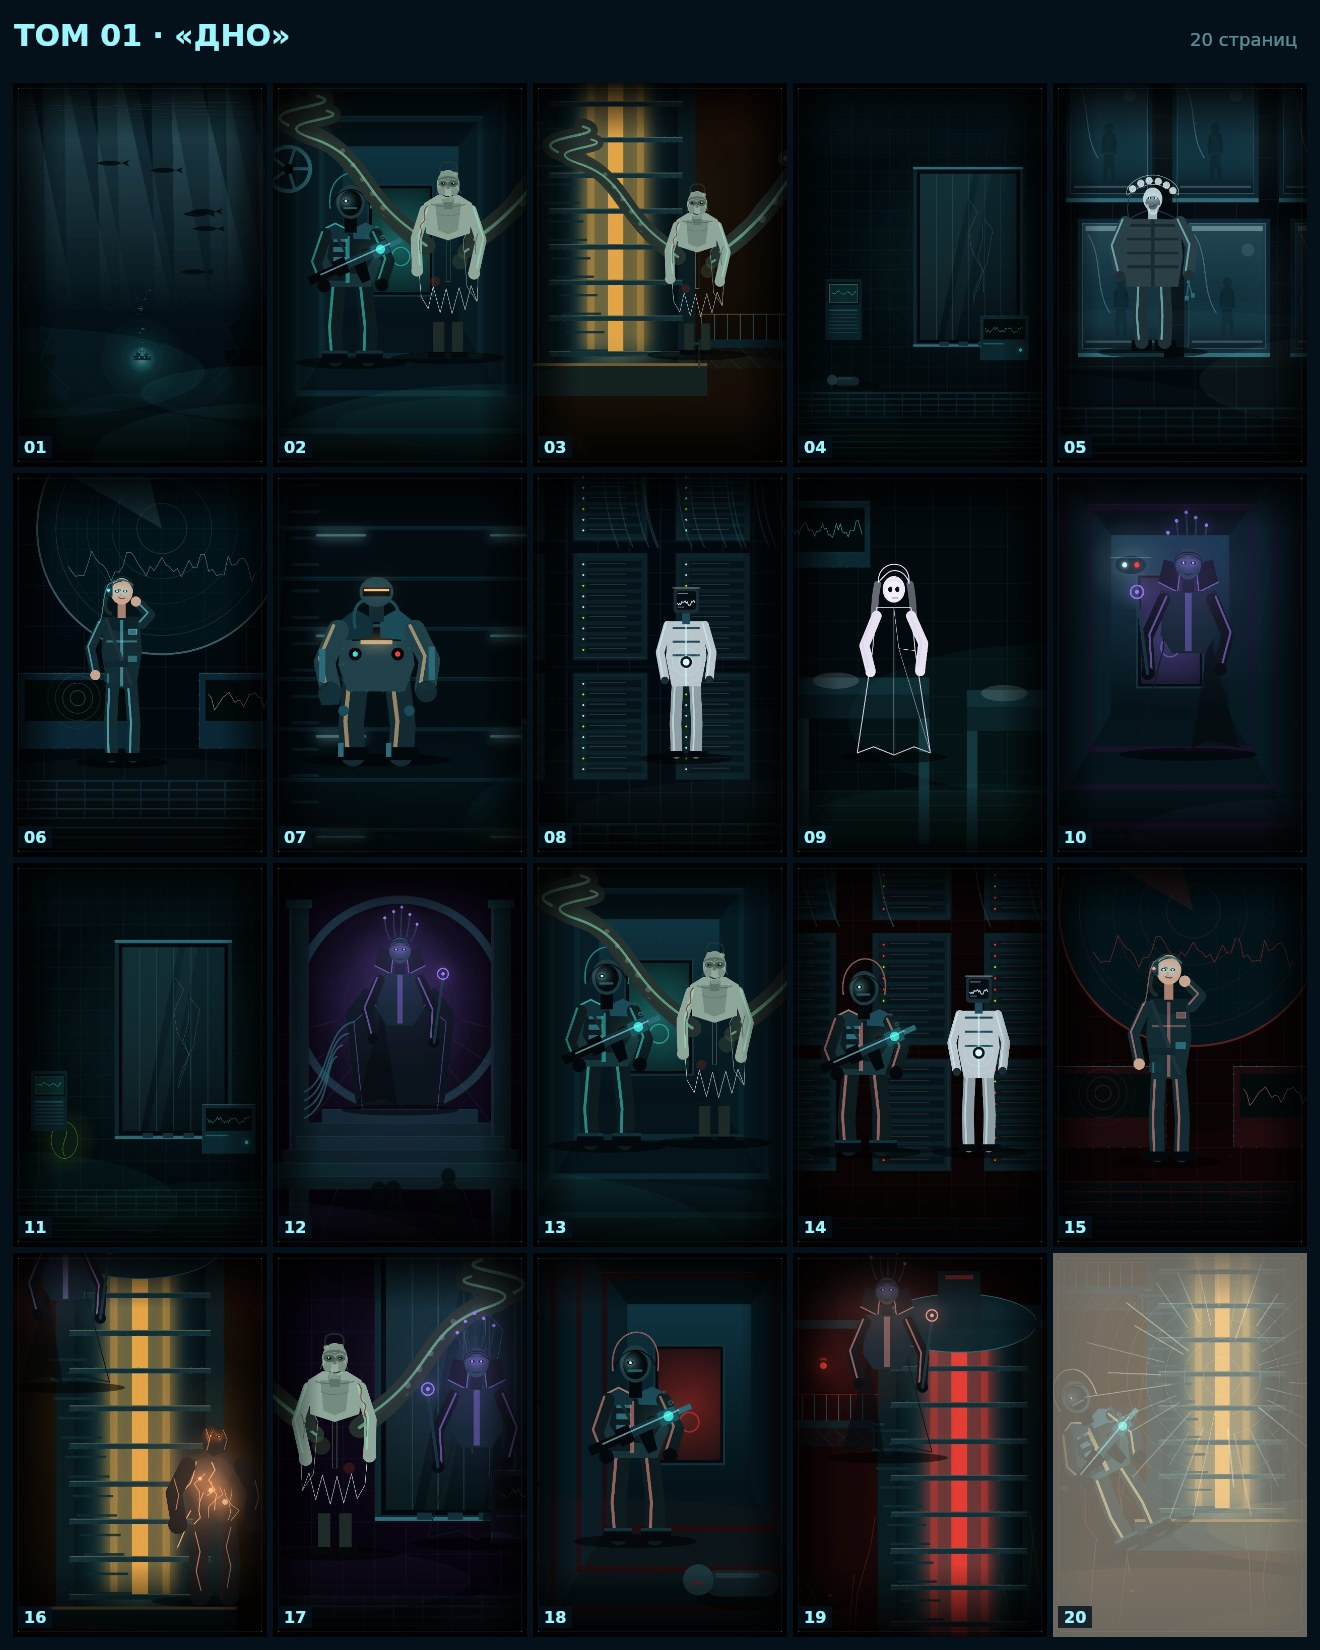
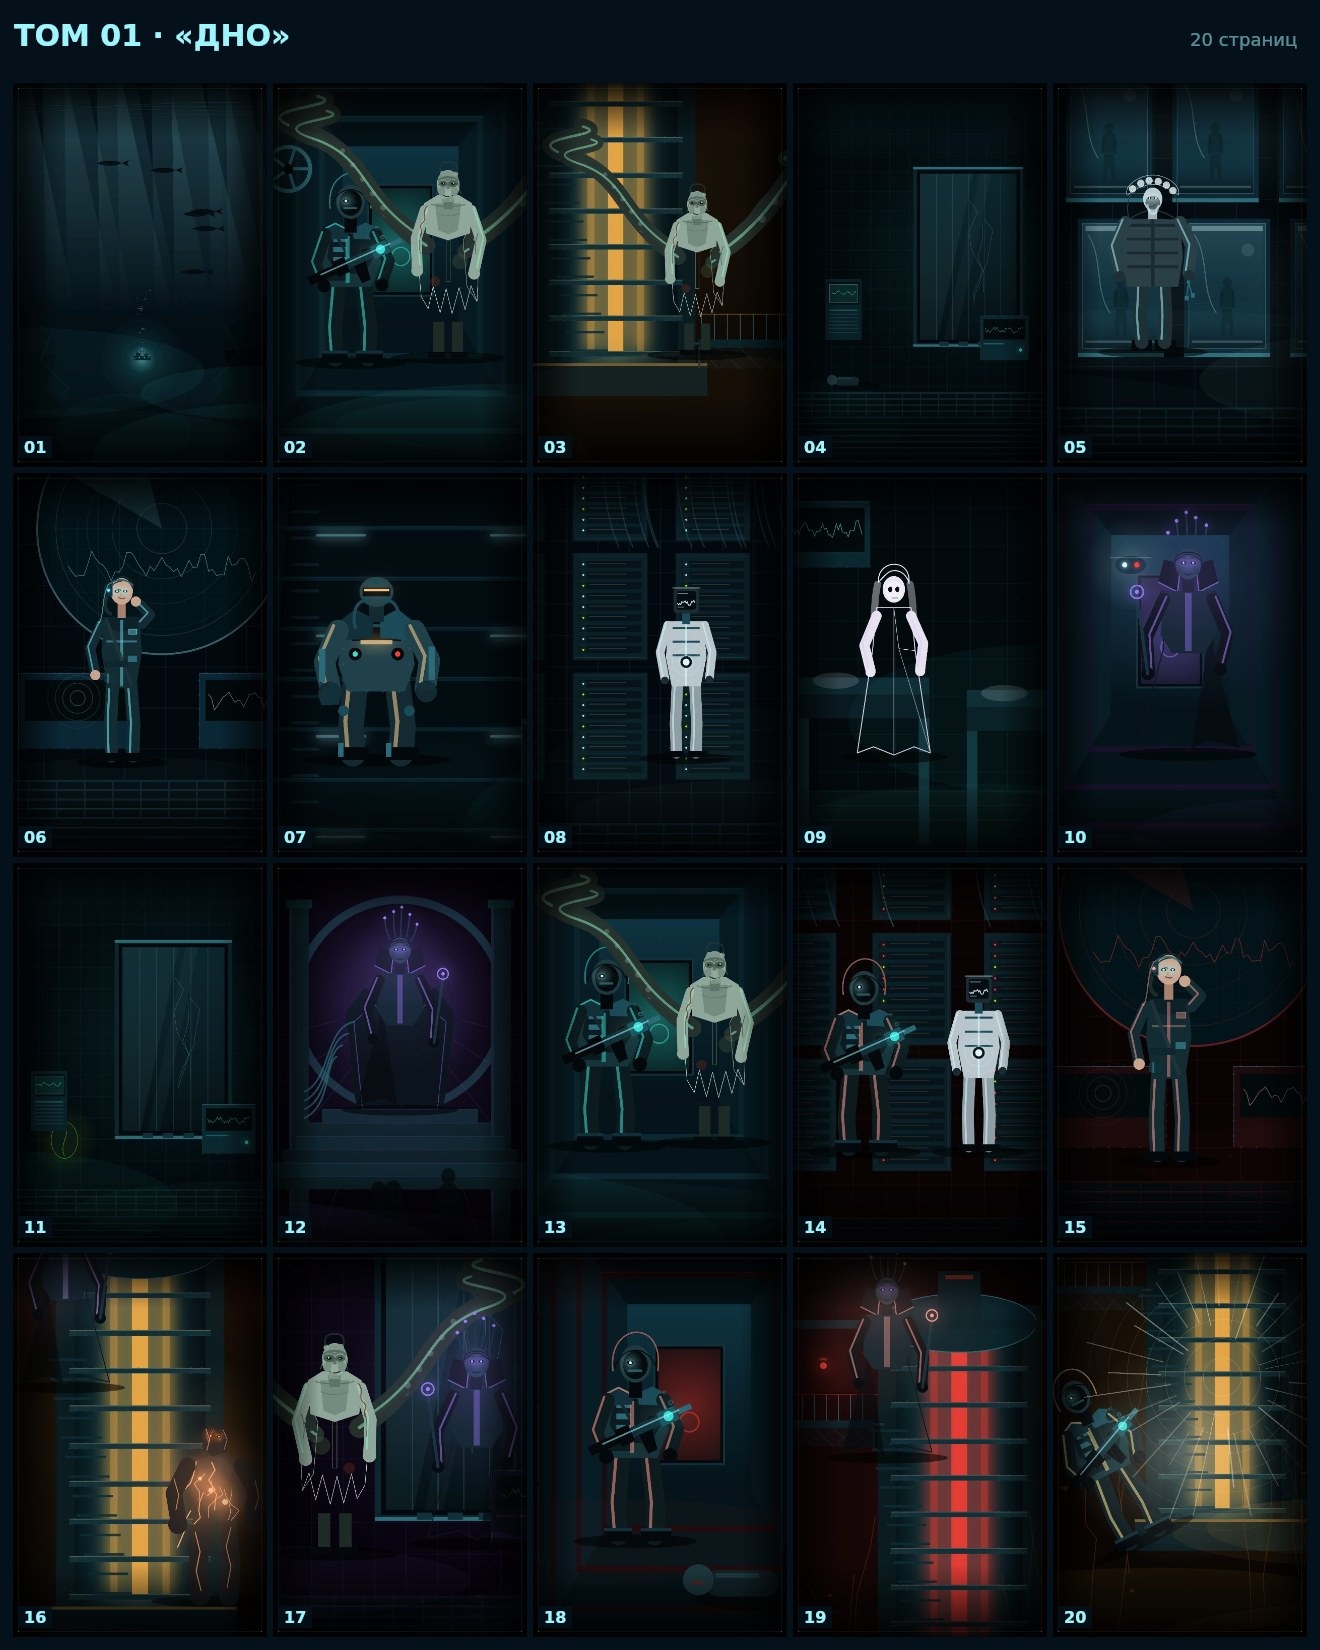
Кадрирование сцены, вспышки-пятна, переходы между томами, обновлённые заставки
- compile.js: framePage — сцена масштабируется и садится по фигурам
- shot.js: единая палитра кадра, вспышка как радиальное пятно
- sets.js: туман стал ниже и разреженнее
- app.js: выход за границы страниц ведёт в соседний том, заголовок вкладки
- comicData/scenes3: ряд из 10 томов, обложка «10 томов · 200 страниц»
- preview/tom-01..10.jpg перегенерированы

Changed region(s): [[0.7765, 0.7418, 0.9939, 1.0]]

diff --git a/js/comicData.js b/js/comicData.js
@@ -21,18 +21,16 @@
      12 томов по 10 страниц. Тома 01–02 — предыстория.
      ========================================================================= */
   global.PG.series = [
-    { n: 1,  title: 'Предыстория',        note: 'дно, братья, запуск',        ready: true },
-    { n: 2,  title: 'Предыстория · крах', note: 'взрыв и первые мутанты',     ready: false },
-    { n: 3,  title: 'Пробуждение',        note: 'Хантер открывает глаза',     ready: false },
-    { n: 4,  title: 'Нижние ярусы',       note: 'закон Лорда Нуллара',        ready: false },
-    { n: 5,  title: 'Сонар',              note: 'Лира слышит охоту',          ready: false },
-    { n: 6,  title: 'Мнема',              note: 'город без памяти',           ready: false },
-    { n: 7,  title: 'Криокамера',         note: 'музей Архивариуса',          ready: false },
-    { n: 8,  title: 'Кровь и металл',     note: 'Бастион против Метеора',     ready: false },
-    { n: 9,  title: 'Телепорт',           note: 'Квантум ломает стены',       ready: false },
-    { n: 10, title: 'Цифровой призрак',   note: 'Сириус просчитал всё',       ready: false },
-    { n: 11, title: 'Всплытие',           note: 'путь наверх',                ready: false },
-    { n: 12, title: 'Эпицентр',           note: 'Генезис закрывается',        ready: false }
+    { n: 1,  title: 'Дно',              note: 'станция, братья, запуск',      ready: true },
+    { n: 2,  title: 'Крах',             note: 'взрыв и первые мутанты',       ready: true },
+    { n: 3,  title: 'Пробуждение',      note: 'Хантер открывает глаза',       ready: true },
+    { n: 4,  title: 'Нижние ярусы',     note: 'закон Лорда Нуллара',          ready: true },
+    { n: 5,  title: 'Сонар',            note: 'Лира слышит охоту',            ready: true },
+    { n: 6,  title: 'Мнема',            note: 'город без памяти',             ready: true },
+    { n: 7,  title: 'Криокамера',       note: 'музей Архивариуса',            ready: true },
+    { n: 8,  title: 'Кровь и металл',   note: 'Бастион против Метеора',       ready: true },
+    { n: 9,  title: 'Телепорт',         note: 'Квантум ломает стены',         ready: true },
+    { n: 10, title: 'Эпицентр',         note: 'Генезис закрывается',          ready: true }
   ];
 
   global.PG.comicData = [

diff --git a/js/volumes2.js b/js/volumes2.js
@@ -809,7 +809,7 @@
 
       /* 07 */
       {
-        set: 'reactor', tone: 'violet', cam: { x: 600, y: 880, z: 1.0 }, flash: '#cbb6ff', flashA: 0.28, setOpts: { seed: 907, broken: true },
+        set: 'reactor', tone: 'violet', cam: { x: 600, y: 880, z: 1.0 }, flash: '#cbb6ff', flashA: 0.24, flashR: 520, setOpts: { seed: 907, broken: true },
         cast: [C('quantum', 520, 1300, 1.06, { rim: '#b9a6ff', sparks: true }), C('hunter', 700, 1310, 1.0, { rim: '#7fe9ff' })],
         fx: [{ kind: 'rings', x: 600, y: 980, n: 7, step: 90, color: '#b9a6ff', a: 0.3 }],
         text: [
@@ -958,7 +958,7 @@
 
       /* 20 */
       {
-        set: 'shaft', tone: 'violet', cam: { x: 600, y: 900, z: 0.86 }, flash: '#cbb6ff', flashA: 0.22, setOpts: { seed: 920 },
+        set: 'shaft', tone: 'violet', cam: { x: 600, y: 900, z: 0.86 }, flash: '#cbb6ff', flashA: 0.2, flashR: 480, setOpts: { seed: 920 },
         cast: [C('quantum', 600, 1290, 1.08, { rim: '#b9a6ff', bleed: true })],
         fx: [{ kind: 'burst', x: 600, y: 1000, r: 420, n: 26, color: '#b9a6ff', a: 0.4 }],
         text: [
@@ -1105,7 +1105,7 @@
 
       /* 12 */
       {
-        set: 'reactor', tone: 'green', cam: { x: 600, y: 880, z: 1.0 }, flash: '#c8ff3d', flashA: 0.24, setOpts: { seed: 1012, broken: true },
+        set: 'reactor', tone: 'green', cam: { x: 600, y: 880, z: 1.0 }, flash: '#c8ff3d', flashA: 0.22, flashR: 520, setOpts: { seed: 1012, broken: true },
         cast: [C('krakentaus', 520, 1300, 1.1, { rim: '#c8ff3d', tentacles: 6 }), C('hunter', 820, 1310, 1.0, { flip: true })],
         fx: [{ kind: 'rings', x: 600, y: 1000, n: 8, step: 90, color: '#9ef01a', a: 0.25 }],
         text: [
@@ -1161,7 +1161,7 @@
 
       /* 17 */
       {
-        set: 'reactor', tone: 'green', cam: { x: 600, y: 880, z: 0.86 }, flash: '#eaffc8', flashA: 0.34, setOpts: { seed: 1017, broken: true, fog: 1.8 },
+        set: 'reactor', tone: 'green', cam: { x: 600, y: 880, z: 0.86 }, flash: '#eaffc8', flashA: 0.28, flashR: 620, setOpts: { seed: 1017, broken: true, fog: 1.8 },
         cast: [C('hunter', 400, 1350, 1.06, { rim: '#c8ff3d' })],
         fx: [{ kind: 'rings', x: 600, y: 900, n: 10, step: 100, color: '#c8ff3d', a: 0.3 }, { kind: 'burst', x: 600, y: 900, r: 700, n: 34, color: '#eaffc8', a: 0.4 }],
         text: [

diff --git a/index.html b/index.html
@@ -3,7 +3,7 @@
 <head>
 <meta charset="utf-8">
 <meta name="viewport" content="width=device-width, initial-scale=1, viewport-fit=cover">
-<title>ПРОЕКТ-ГЕНЕЗИС · Том 01 «Предыстория»</title>
+<title>ПРОЕКТ-ГЕНЕЗИС · 10 томов × 20 страниц</title>
 <meta name="description" content="Мрачный подводный атомный техно-триллер. Интерактивный комикс на Konva.js: графика из геометрии, текст поверх Canvas.">
 <meta name="theme-color" content="#02080c">
 <link rel="stylesheet" href="style.css">
@@ -33,7 +33,7 @@
 
     <div class="topbar__meta">
       <span class="tag tag--live"><i></i>ГЛУБИНА 10 994 М</span>
-      <span class="tag" id="hud-vol-name">ТОМ 01 · ПРЕДЫСТОРИЯ</span>
+      <span class="tag" id="hud-vol-name">ТОМ 01 · ДНО</span>
       <span class="tag tag--muted" id="hud-place">станция «Генезис-1»</span>
     </div>
 
@@ -136,8 +136,8 @@
           <h3>Тома · 10 × 20 страниц</h3>
           <ol class="vols" id="index-volumes"></ol>
           <p class="index__note">
-            Полный цикл: 10 томов по 20 страниц — 200 страниц.
-            Тома 01–02 — предыстория; дальше — станция после взрыва.
+            Полный цикл: 10 томов по 20 страниц — 200 страниц, все тома готовы.
+            Тома 01–02 — предыстория; дальше — станция после взрыва, «Ярус-3» и финал.
           </p>
         </section>
 

diff --git a/js/volumes.js b/js/volumes.js
@@ -279,7 +279,7 @@
 
       /* 20 */
       {
-        set: 'reactor', tone: 'amber', cam: { x: 600, y: 880, z: 0.86 }, flash: '#fff6e0', flashA: 0.42,
+        set: 'reactor', tone: 'amber', cam: { x: 600, y: 880, z: 0.86 }, flash: '#fff6e0', flashA: 0.3, flashR: 520,
         setOpts: { seed: 120, broken: true, fog: 1.4 },
         cast: [C('hunter', 300, 1330, 1.15, { rot: -26, rim: '#ffe08a' })],
         fx: [{ kind: 'rings', x: 600, y: 760, n: 9, step: 90, color: '#ffe08a', a: 0.3 }, { kind: 'burst', x: 600, y: 760, r: 620, n: 30, color: '#fff6e0', a: 0.45 }],
@@ -302,7 +302,7 @@
 
       /* 01 */
       {
-        set: 'reactor', tone: 'amber', cam: { x: 600, y: 900, z: 0.88 }, flash: '#ffcf8a', flashA: 0.3,
+        set: 'reactor', tone: 'amber', cam: { x: 600, y: 900, z: 0.88 }, flash: '#ffcf8a', flashA: 0.26, flashR: 560,
         setOpts: { seed: 201, broken: true, fog: 1.5 },
         prop: [P('debris', 400, 1400)],
         fx: [{ kind: 'ash', n: 120, seed: 3 }],
@@ -1221,7 +1221,7 @@
 
       /* 20 */
       {
-        set: 'sonar', tone: 'red', cam: { x: 600, y: 880, z: 0.86 }, flash: '#ff9a8f', flashA: 0.22, setOpts: { seed: 520 },
+        set: 'sonar', tone: 'red', cam: { x: 600, y: 880, z: 0.86 }, flash: '#ff9a8f', flashA: 0.2, flashR: 480, setOpts: { seed: 520 },
         cast: [C('lyra', 520, 1300, 1.1, { rim: '#ff9a8f', sonar: true })],
         fx: [{ kind: 'burst', x: 600, y: 560, r: 420, n: 24, color: '#ff3d33', a: 0.3 }],
         text: [

diff --git a/js/app.js b/js/app.js
@@ -254,6 +254,18 @@
   /* ------------------------------------------------------------ навигация */
   App.go = function (t, opts) {
     opts = opts || {};
+    // выход за границу страниц тома — это переход к соседнему тому
+    if (t > App.total && App.volumeIdx < App.volumes.length - 1) {
+      App.setVolume(App.volumeIdx + 1);
+      App.go(1, { instant: opts.instant });
+      return;
+    }
+    if (t < 1 && App.volumeIdx > 0) {
+      var pv = App.volumeIdx - 1;
+      App.setVolume(pv);
+      App.go(App.total, { instant: opts.instant });
+      return;
+    }
     t = Math.max(1, Math.min(App.total, t));
     if (App.busy) {
       clearTimeout(App._busyTimer);
@@ -428,6 +440,8 @@
     }
     const ttlTop = $('#hud-vol-name');
     if (ttlTop) ttlTop.textContent = 'ТОМ ' + String(App.volume.id).padStart(2, '0') + ' · ' + App.volume.title;
+    document.title = 'ПРОЕКТ-ГЕНЕЗИС · Том ' + String(App.volume.id).padStart(2, '0') +
+      ' «' + App.volume.title + '» · стр. ' + App.page;
     // маркеры страниц под текущий том
     const marks = $('#page-marks');
     if (marks && marks.childElementCount !== App.total) {

diff --git a/js/shot.js b/js/shot.js
@@ -239,7 +239,14 @@
       g.add(PG.speckles({ x0: 0, y0: 0, x1: W, y1: H, count: 40, seed: seed + 3, color: '#dff6ff', minA: 0.01, maxA: 0.05, minR: 0.4, maxR: 1.3 }));
     }
     if (s.flash) {
-      g.add(PG.rect(0, 0, W, H, s.flash, { opacity: s.flashA == null ? 0.35 : s.flashA }));
+      // вспышка — световое пятно в центре кадра, а не белесая заливка листа
+      const r = s.flashR || 520;
+      const a = s.flashA == null ? 0.3 : s.flashA;
+      g.add(PG.circle(W / 2, H * 0.52, r, undefined, PG.radial(r, [
+        0, PG.rgba(s.flash, a),
+        0.55, PG.rgba(s.flash, a * 0.35),
+        1, PG.rgba(s.flash, 0)
+      ])));
     }
     if (s.frame !== false) {
       g.add(PG.rect(26, 26, W - 52, H - 52, undefined, { stroke: 'rgba(157,246,255,0.14)', strokeWidth: 2 }));

diff --git a/js/scenes3.js b/js/scenes3.js
@@ -58,9 +58,9 @@
     kicker: 'МРАЧНЫЙ ПОДВОДНЫЙ АТОМНЫЙ ТЕХНО-ТРИЛЛЕР',
     title: 'ПРОЕКТ\nГЕНЕЗИС',
     volume: 'ТОМ 01',
-    volumeName: 'ПРЕДЫСТОРИЯ',
+    volumeName: 'ДНО',
     tagline: 'На дне Марианской впадины никто не слышит, как ты врёшь.',
-    meta: '12 томов · 120 страниц · первые два тома — предыстория',
+    meta: '10 томов · 200 страниц · цикл завершён',
     cta: 'ОТКРЫТЬ ТОМ 01'
   };
 
